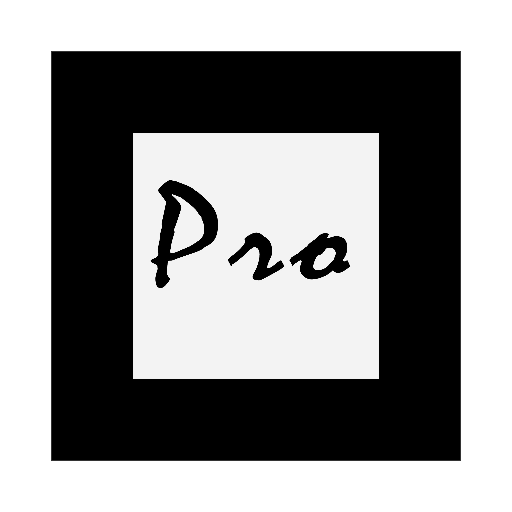
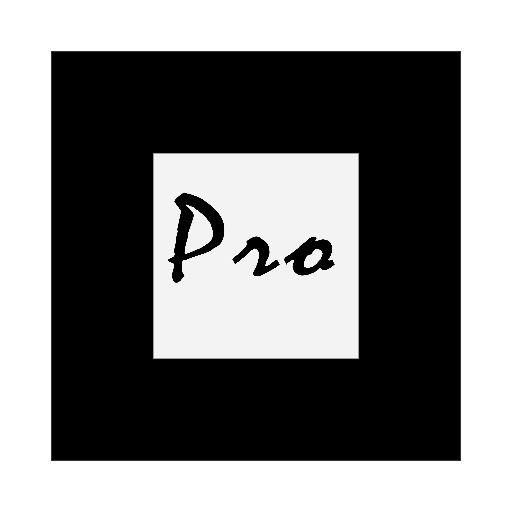
Updated demos to aframe 0.8.2 and ar.js 1.6.0. Upgraded to Pro marker

Changed region(s): [[0.25, 0.25, 0.75, 0.75], [0.4375, 0.5, 0.4688, 0.5312]]

diff --git a/www/aframe/cesiumman/index.html b/www/aframe/cesiumman/index.html
@@ -1,11 +1,11 @@
 <html>
 <meta name="viewport" content="width=device-width, user-scalable=no, minimum-scale=1.0, maximum-scale=1.0">
-<script src="https://aframe.io/releases/0.8.0/aframe.min.js"></script>
-<script src="https://cdn.rawgit.com/jeromeetienne/AR.js/1.5.5/aframe/build/aframe-ar.js"></script>
+<script src="https://aframe.io/releases/0.8.2/aframe.min.js"></script>
+<script src="https://cdn.rawgit.com/jeromeetienne/AR.js/1.6.0/aframe/build/aframe-ar.js"></script>
 <script src="https://rawgit.com/donmccurdy/aframe-extras/master/dist/aframe-extras.js"></script>
 <body style='margin : 0px; overflow: hidden;'>
     <a-scene embedded arjs='trackingMethod: best; debugUIEnabled: false;'>
-      <a-marker type='pattern' url='https://rawgit.com/germanviscuso/AR.js/master/data/data/patt.gafas'>
+      <a-marker type='pattern' url='https://rawgit.com/germanviscuso/AR.js/master/data/data/promarker.patt'>
         <!--a-gltf-model src="https://rawgit.com/germanviscuso/AR.js/master/three.js/examples/models/oculus_rift_cv1/scene.gltf" scale="0.2 0.2 0.2" animation-mixer=""></a-gltf-model-->
       <a-gltf-model src="https://rawgit.com/KhronosGroup/glTF-Sample-Models/master/2.0/CesiumMan/glTF/CesiumMan.gltf" scale="0.75 0.75 0.75" animation-mixer="" sound="src: url(https://rawgit.com/germanviscuso/AR.js/master/three.js/examples/sounds/whistling-tunes.wav); autoplay: true; loop: true"></a-gltf-model>
     </a-marker>

diff --git a/www/aframe/busterdrone/index.html b/www/aframe/busterdrone/index.html
@@ -1,12 +1,12 @@
 <html>
 <meta name="viewport" content="width=device-width, user-scalable=no, minimum-scale=1.0, maximum-scale=1.0">
-<script src="https://aframe.io/releases/0.8.0/aframe.min.js"></script>
-<script src="https://cdn.rawgit.com/jeromeetienne/AR.js/1.5.5/aframe/build/aframe-ar.js"></script>
+<script src="https://aframe.io/releases/0.8.2/aframe.min.js"></script>
+<script src="https://cdn.rawgit.com/jeromeetienne/AR.js/1.6.0/aframe/build/aframe-ar.js"></script>
 <script src="https://rawgit.com/donmccurdy/aframe-extras/master/dist/aframe-extras.js"></script>
 <body style='margin : 0px; overflow: hidden;'>
     <a-scene embedded arjs='trackingMethod: best; debugUIEnabled: false;'>
       <a-entity light="type: ambient; intensity: 1.2"></a-entity>
-      <a-marker type='pattern' url='https://rawgit.com/germanviscuso/AR.js/master/data/data/patt.gafas'>
+      <a-marker type='pattern' url='https://rawgit.com/germanviscuso/AR.js/master/data/data/promarker.patt'>
         <a-gltf-model id="drone" src="https://rawgit.com/germanviscuso/AR.js/master/three.js/examples/models/buster_drone/scene.gltf" position="0 0.7 0" scale="0.007 0.007 0.007" animation-mixer="loop:repeat" sound="src: url(https://rawgit.com/germanviscuso/AR.js/master/three.js/examples/sounds/robot_hombre.mp3); autoplay: true; loop: true"></a-gltf-model>
       </a-marker>
       <a-camera-static/>

diff --git a/www/aframe/oculus/index.html b/www/aframe/oculus/index.html
@@ -1,11 +1,11 @@
 <html>
 <meta name="viewport" content="width=device-width, user-scalable=no, minimum-scale=1.0, maximum-scale=1.0">
-<script src="https://aframe.io/releases/0.8.0/aframe.min.js"></script>
-<script src="https://cdn.rawgit.com/jeromeetienne/AR.js/1.5.5/aframe/build/aframe-ar.js"></script>
+<script src="https://aframe.io/releases/0.8.2/aframe.min.js"></script>
+<script src="https://cdn.rawgit.com/jeromeetienne/AR.js/1.6.0/aframe/build/aframe-ar.js"></script>
 <body style='margin : 0px; overflow: hidden;'>
     <a-scene embedded arjs='trackingMethod: best; debugUIEnabled: false;'>
       <a-entity light="type: ambient; intensity: 4;"></a-entity>
-      <a-marker type='pattern' url='https://rawgit.com/germanviscuso/AR.js/master/data/data/patt.gafas'>
+      <a-marker type='pattern' url='https://rawgit.com/germanviscuso/AR.js/master/data/data/promarker.patt'>
         <a-gltf-model src="https://rawgit.com/germanviscuso/AR.js/master/three.js/examples/models/oculus_rift_cv1/scene.gltf" scale="0.37 0.37 0.37" position="0 0.75 0" sound="src: url(https://rawgit.com/germanviscuso/AR.js/master/three.js/examples/sounds/Bloom_-_10_-_Temperance.mp3); autoplay: true; loop: true">
           <a-animation attribute = "rotation"
                dur = "10000"

diff --git a/www/aframe/damagedhelmet/index.html b/www/aframe/damagedhelmet/index.html
@@ -1,11 +1,11 @@
 <html>
 <meta name="viewport" content="width=device-width, user-scalable=no, minimum-scale=1.0, maximum-scale=1.0">
-<script src="https://aframe.io/releases/0.8.0/aframe.min.js"></script>
-<script src="https://cdn.rawgit.com/jeromeetienne/AR.js/1.5.5/aframe/build/aframe-ar.js"></script>
+<script src="https://aframe.io/releases/0.8.2/aframe.min.js"></script>
+<script src="https://cdn.rawgit.com/jeromeetienne/AR.js/1.6.0/aframe/build/aframe-ar.js"></script>
 <body style='margin : 0px; overflow: hidden;'>
     <a-scene embedded arjs='trackingMethod: best; debugUIEnabled: false;'>
       <a-entity light="type: ambient; intensity: 1.5;"></a-entity>
-      <a-marker type='pattern' url='https://rawgit.com/germanviscuso/AR.js/master/data/data/patt.gafas'>
+      <a-marker type='pattern' url='https://rawgit.com/germanviscuso/AR.js/master/data/data/promarker.patt'>
         <a-gltf-model src="https://rawgit.com/KhronosGroup/glTF-Sample-Models/master/2.0/DamagedHelmet/glTF/DamagedHelmet.gltf" position="0 1.1 0" sound="src: url(https://rawgit.com/germanviscuso/AR.js/master/three.js/examples/sounds/Bloom_-_10_-_Temperance.mp3); autoplay: true; loop: true">
           <a-animation attribute = "rotation"
                dur = "10000"

diff --git a/www/aframe/stormtrooper/index.html b/www/aframe/stormtrooper/index.html
@@ -1,5 +1,5 @@
 <head><script src="https://aframe.io/releases/0.7.0/aframe.min.js"></script>
-<script src="https://cdn.rawgit.com/jeromeetienne/AR.js/1.5.5/aframe/build/aframe-ar.js"></script>
+<script src="https://cdn.rawgit.com/jeromeetienne/AR.js/1.6.0/aframe/build/aframe-ar.js"></script>
 <script src="https://rawgit.com/donmccurdy/aframe-extras/master/dist/aframe-extras.js"></script>
 <script src="https://rawgit.com/mrdoob/three.js/r72/src/extras/animation/Animation.js"></script>
 <script src="https://rawgit.com/mrdoob/three.js/r72/src/extras/animation/AnimationHandler.js"></script>
@@ -25,7 +25,7 @@ AFRAME.registerComponent('collada-animation-mixer', {
 </head>
 <body style='margin : 0px; overflow: hidden;'>
     <a-scene embedded arjs='trackingMethod: best; debugUIEnabled: false;'>
-      <a-marker type='pattern' url='https://rawgit.com/germanviscuso/AR.js/master/data/data/patt.gafas'>
+      <a-marker type='pattern' url='https://rawgit.com/germanviscuso/AR.js/master/data/data/promarker.patt'>
       <!--a-marker preset='hiro'-->
       <a-collada-model 
         src="https://rawgit.com/germanviscuso/AR.js/master/three.js/examples/models/stormtrooper/stormtrooper.dae"

diff --git a/www/aframe/flighthelmet/index.html b/www/aframe/flighthelmet/index.html
@@ -1,11 +1,11 @@
 <html>
 <meta name="viewport" content="width=device-width, user-scalable=no, minimum-scale=1.0, maximum-scale=1.0">
-<script src="https://aframe.io/releases/0.8.0/aframe.min.js"></script>
-<script src="https://cdn.rawgit.com/jeromeetienne/AR.js/1.5.5/aframe/build/aframe-ar.js"></script>
+<script src="https://aframe.io/releases/0.8.2/aframe.min.js"></script>
+<script src="https://cdn.rawgit.com/jeromeetienne/AR.js/1.6.0/aframe/build/aframe-ar.js"></script>
 <body style='margin : 0px; overflow: hidden;'>
     <a-scene embedded arjs='trackingMethod: best; debugUIEnabled: false;'>
       <a-entity light="type: ambient; intensity: 1.5;"></a-entity>
-      <a-marker type='pattern' url='https://rawgit.com/germanviscuso/AR.js/master/data/data/patt.gafas'>
+      <a-marker type='pattern' url='https://rawgit.com/germanviscuso/AR.js/master/data/data/promarker.patt'>
         <a-gltf-model src="https://rawgit.com/germanviscuso/AR.js/master/three.js/examples/models/FlightHelmet/FlightHelmet.gltf" position="0 1.3 0" scale="3 3 3"></a-gltf-model>
       </a-marker>
       <a-camera-static/>

diff --git a/www/aframe/hole/index.html b/www/aframe/hole/index.html
@@ -17,7 +17,7 @@
     <a-scene embedded arjs='trackingMethod: best; debugUIEnabled: false'>
 
 	
-    <a-marker type='pattern' url='https://rawgit.com/germanviscuso/AR.js/master/data/data/patt.gafas'>
+    <a-marker type='pattern' url='https://rawgit.com/germanviscuso/AR.js/master/data/data/promarker.patt'>
 
 	    <!-- portal 360 with an image -->
 	    <!--a-portal-door url='https://raw.githubusercontent.com/mrdoob/three.js/r82/examples/textures/2294472375_24a3b8ef46_o.jpg' position='0 0 0' scale='1 1 1' rotation='0 90 0'><a-portal-door-->
